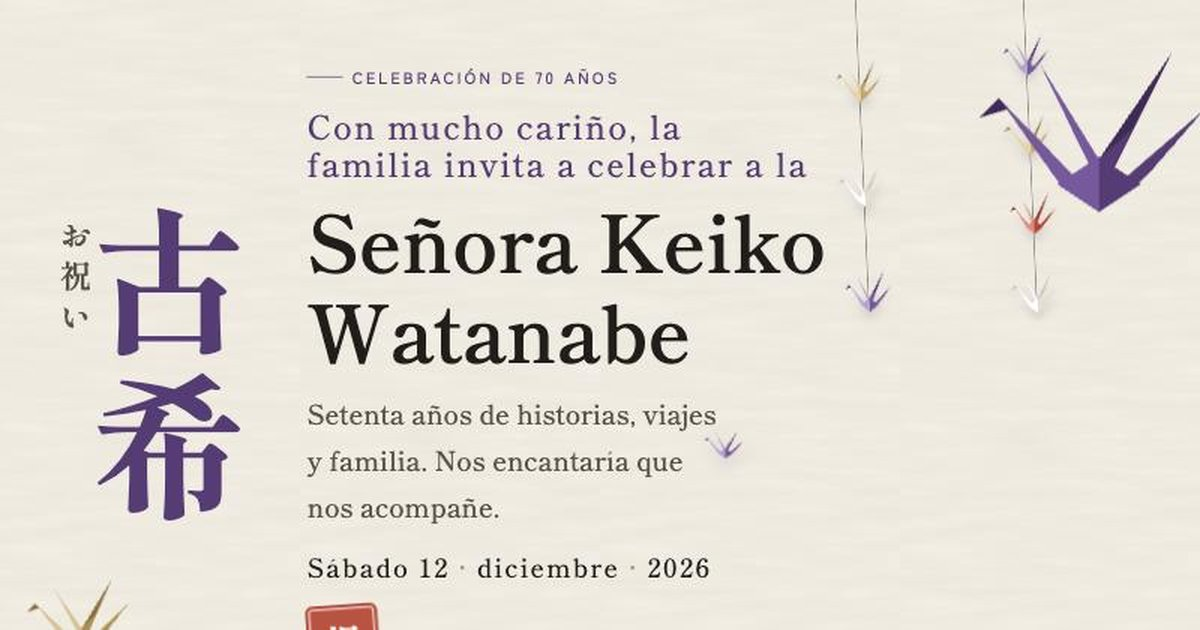
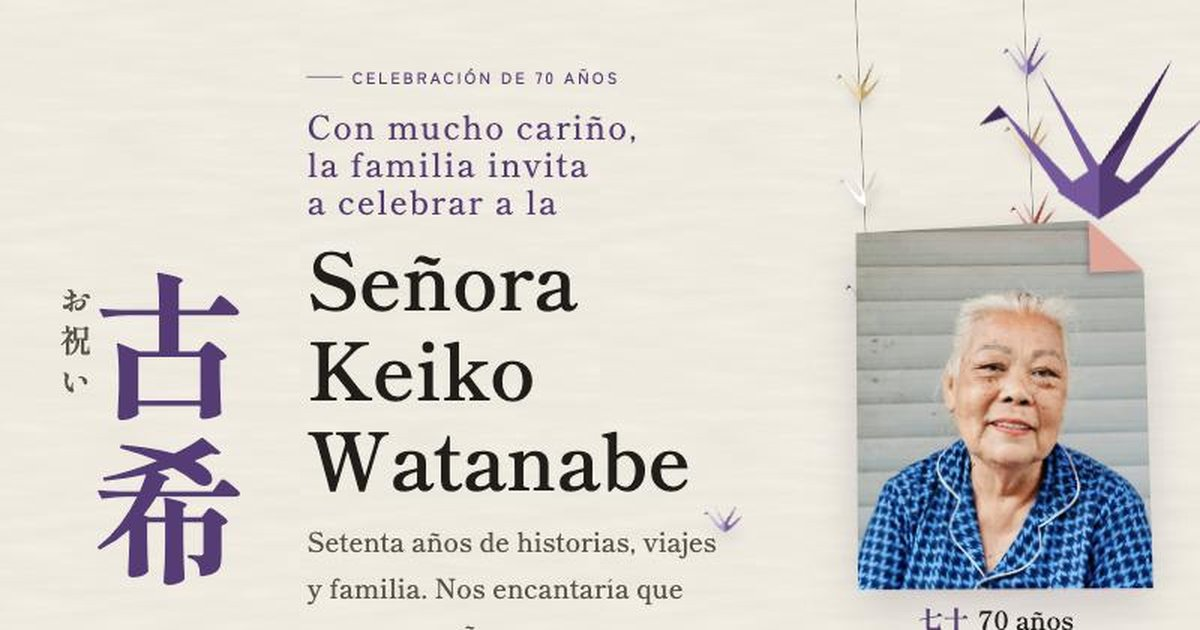
Foto de la homenajeada, lugar en Sushi Itto Altara y README de plantilla

diff --git a/index.html b/index.html
@@ -191,6 +191,16 @@ h1 em{font-style:normal;display:block;font-size:.42em;color:var(--murasaki);lett
 .pliego figcaption span{color:var(--sumi-suave)}
 .pliego .k{font-family:var(--mincho);font-weight:800;color:var(--murasaki);margin-right:.35em}
 
+/* retrato de la señora */
+.retrato{margin:0;width:clamp(230px,24vw,340px);max-width:100%;justify-self:center}
+.retrato .hoja-foto::after{--fold:var(--murasaki)}
+.retrato figcaption{text-align:center;justify-items:center}
+
+/* foto del lugar */
+.lugar{margin:8px 0 0;width:min(100%,360px)}
+.lugar .hoja-foto::after{--fold:var(--kin-claro)}
+.lugar figcaption{text-align:left}
+
 /* movimiento extra */
 .koki-kanji span{transition:transform .5s cubic-bezier(.2,.8,.2,1)}
 .koki-kanji span:hover{transform:translateY(-8px) rotate(-3deg)}
@@ -203,13 +213,14 @@ h1 em{font-style:normal;display:block;font-size:.42em;color:var(--murasaki);lett
 @media (max-width:640px){.guirnalda.solo-ancho{display:none}}
 
 @media (min-width:860px){
-  .portada-grid{grid-template-columns:auto 1fr}
+  .portada-grid{grid-template-columns:auto 1fr auto}
   .portada-txt{justify-items:start;text-align:left}
   .koki-wrap{grid-template-columns:1.3fr 1fr}
 }
 @media (orientation:landscape) and (max-height:560px){
   .portada{padding-block:28px 60px}
-  .portada-grid{grid-template-columns:auto 1fr}
+  .portada-grid{grid-template-columns:auto 1fr auto}
+  .retrato{width:clamp(180px,30vh,240px)}
   .portada-txt{justify-items:start;text-align:left}
   .tategaki{font-size:clamp(70px,24vh,120px)}
   h1{font-size:clamp(36px,11vh,64px)}
@@ -266,6 +277,7 @@ h1 em{font-style:normal;display:block;font-size:.42em;color:var(--murasaki);lett
       <p class="fecha-hero">Sábado 12 <span>·</span> diciembre <span>·</span> 2026</p>
       <div class="hanko" lang="ja" aria-label="Sello: celebración">祝</div>
     </div>
+    <figure class="retrato pliego"><div class="hoja-foto"><img src="fotos/keiko.jpg" alt="Foto de la señora Keiko sonriendo"></div><figcaption><b><span class="k" lang="ja">七十</span>70 años</b></figcaption></figure>
   </div>
 </header>
 
@@ -321,11 +333,12 @@ h1 em{font-style:normal;display:block;font-size:.42em;color:var(--murasaki);lett
     <div class="det-head">
       <span class="rotulo">Detalles</span>
       <h2>La celebración</h2>
+      <figure class="lugar pliego"><div class="hoja-foto"><img src="fotos/lugar.jpg" alt="Barra de sushi con faroles de papel" loading="lazy"></div><figcaption><b><span class="k" lang="ja">所</span>Sushi Itto Altara</b><span>Centro Comercial Altara, San Pedro Sula</span></figcaption></figure>
     </div>
     <div class="datos">
       <div class="dato"><span class="k" lang="ja">日</span><h3>Fecha</h3><p>Sábado 12 de diciembre de 2026</p></div>
       <div class="dato"><span class="k" lang="ja">時</span><h3>Hora</h3><p>7:00 p. m.</p></div>
-      <div class="dato"><span class="k" lang="ja">所</span><h3>Lugar</h3><p>Embajada del Japón, Tegucigalpa<br><a class="enlace" href="https://maps.google.com/?q=Embajada+del+Japon+Tegucigalpa" target="_blank" rel="noopener">Abrir en el mapa</a></p></div>
+      <div class="dato"><span class="k" lang="ja">所</span><h3>Lugar</h3><p>Sushi Itto Altara<br>Centro Comercial Altara, San Pedro Sula<br><a class="enlace" href="https://maps.google.com/?q=Sushi+Itto+Altara+San+Pedro+Sula" target="_blank" rel="noopener">Abrir en el mapa</a></p></div>
       <div class="dato"><span class="k" lang="ja">装</span><h3>Vestimenta</h3><p>Formal. Si lo desea, lleve un detalle morado en honor al koki.</p></div>
     </div>
   </div>
@@ -357,7 +370,7 @@ h1 em{font-style:normal;display:block;font-size:.42em;color:var(--murasaki);lett
   <div class="conf-wrap">
     <span class="rotulo">Confirmación</span>
     <h2>Le esperamos</h2>
-    <p>Por favor confirme su asistencia antes del 1 de diciembre. Los cupos de la embajada son limitados y cada invitado debe estar en la lista.</p>
+    <p>Por favor confirme su asistencia antes del 1 de diciembre. Reservamos el salón con cupo limitado y necesitamos el número exacto de invitados.</p>
     <p class="tel" id="tel">+504 9999-9999</p>
     <div class="acciones">
       <a class="btn" id="wa" href="#" target="_blank" rel="noopener">Confirmar por WhatsApp</a>

diff --git a/invitacion.html b/invitacion.html
@@ -173,6 +173,16 @@ h1 em{font-style:normal;display:block;font-size:.42em;color:var(--murasaki);lett
 .pliego figcaption span{color:var(--sumi-suave)}
 .pliego .k{font-family:var(--mincho);font-weight:800;color:var(--murasaki);margin-right:.35em}
 
+/* retrato de la señora */
+.retrato{margin:0;width:clamp(230px,24vw,340px);max-width:100%;justify-self:center}
+.retrato .hoja-foto::after{--fold:var(--murasaki)}
+.retrato figcaption{text-align:center;justify-items:center}
+
+/* foto del lugar */
+.lugar{margin:8px 0 0;width:min(100%,360px)}
+.lugar .hoja-foto::after{--fold:var(--kin-claro)}
+.lugar figcaption{text-align:left}
+
 /* movimiento extra */
 .koki-kanji span{transition:transform .5s cubic-bezier(.2,.8,.2,1)}
 .koki-kanji span:hover{transform:translateY(-8px) rotate(-3deg)}
@@ -185,13 +195,14 @@ h1 em{font-style:normal;display:block;font-size:.42em;color:var(--murasaki);lett
 @media (max-width:640px){.guirnalda.solo-ancho{display:none}}
 
 @media (min-width:860px){
-  .portada-grid{grid-template-columns:auto 1fr}
+  .portada-grid{grid-template-columns:auto 1fr auto}
   .portada-txt{justify-items:start;text-align:left}
   .koki-wrap{grid-template-columns:1.3fr 1fr}
 }
 @media (orientation:landscape) and (max-height:560px){
   .portada{padding-block:28px 60px}
-  .portada-grid{grid-template-columns:auto 1fr}
+  .portada-grid{grid-template-columns:auto 1fr auto}
+  .retrato{width:clamp(180px,30vh,240px)}
   .portada-txt{justify-items:start;text-align:left}
   .tategaki{font-size:clamp(70px,24vh,120px)}
   h1{font-size:clamp(36px,11vh,64px)}
@@ -246,6 +257,7 @@ h1 em{font-style:normal;display:block;font-size:.42em;color:var(--murasaki);lett
       <p class="fecha-hero">Sábado 12 <span>·</span> diciembre <span>·</span> 2026</p>
       <div class="hanko" lang="ja" aria-label="Sello: celebración">祝</div>
     </div>
+    <figure class="retrato pliego"><div class="hoja-foto"><img src="fotos/keiko.jpg" alt="Foto de la señora Keiko sonriendo"></div><figcaption><b><span class="k" lang="ja">七十</span>70 años</b></figcaption></figure>
   </div>
 </header>
 
@@ -301,11 +313,12 @@ h1 em{font-style:normal;display:block;font-size:.42em;color:var(--murasaki);lett
     <div class="det-head">
       <span class="rotulo">Detalles</span>
       <h2>La celebración</h2>
+      <figure class="lugar pliego"><div class="hoja-foto"><img src="fotos/lugar.jpg" alt="Barra de sushi con faroles de papel" loading="lazy"></div><figcaption><b><span class="k" lang="ja">所</span>Sushi Itto Altara</b><span>Centro Comercial Altara, San Pedro Sula</span></figcaption></figure>
     </div>
     <div class="datos">
       <div class="dato"><span class="k" lang="ja">日</span><h3>Fecha</h3><p>Sábado 12 de diciembre de 2026</p></div>
       <div class="dato"><span class="k" lang="ja">時</span><h3>Hora</h3><p>7:00 p. m.</p></div>
-      <div class="dato"><span class="k" lang="ja">所</span><h3>Lugar</h3><p>Embajada del Japón, Tegucigalpa<br><a class="enlace" href="https://maps.google.com/?q=Embajada+del+Japon+Tegucigalpa" target="_blank" rel="noopener">Abrir en el mapa</a></p></div>
+      <div class="dato"><span class="k" lang="ja">所</span><h3>Lugar</h3><p>Sushi Itto Altara<br>Centro Comercial Altara, San Pedro Sula<br><a class="enlace" href="https://maps.google.com/?q=Sushi+Itto+Altara+San+Pedro+Sula" target="_blank" rel="noopener">Abrir en el mapa</a></p></div>
       <div class="dato"><span class="k" lang="ja">装</span><h3>Vestimenta</h3><p>Formal. Si lo desea, lleve un detalle morado en honor al koki.</p></div>
     </div>
   </div>
@@ -337,7 +350,7 @@ h1 em{font-style:normal;display:block;font-size:.42em;color:var(--murasaki);lett
   <div class="conf-wrap">
     <span class="rotulo">Confirmación</span>
     <h2>Le esperamos</h2>
-    <p>Por favor confirme su asistencia antes del 1 de diciembre. Los cupos de la embajada son limitados y cada invitado debe estar en la lista.</p>
+    <p>Por favor confirme su asistencia antes del 1 de diciembre. Reservamos el salón con cupo limitado y necesitamos el número exacto de invitados.</p>
     <p class="tel" id="tel">+504 9999-9999</p>
     <div class="acciones">
       <a class="btn" id="wa" href="#" target="_blank" rel="noopener">Confirmar por WhatsApp</a>

diff --git a/README.md b/README.md
@@ -1,0 +1,13 @@
+# Plantilla: invitación koki (70 años, tema japonés)
+
+Para reusarla con otra persona o lugar:
+
+1. Textos: editar `invitacion.html` (nombre, fecha, hora, lugar, programa, teléfono en `EVENTO`).
+2. Fotos (mismo nombre de archivo, se reemplazan y listo):
+   - `fotos/keiko.jpg` foto de la homenajeada (vertical 4:5)
+   - `fotos/lugar.jpg` foto del lugar (vertical 4:5)
+   - `fotos/grullas.jpg`, `fotos/te.jpg`, `fotos/jardin.jpg` sección Tradición
+3. Armar la página: `cd ~/Developer && python3 armar-pagina.py cumple-koki <url> "<título>" "<descripción>" "#5B3A78"`
+4. Vista previa de WhatsApp: `vista.jpg` (1200×630).
+
+Fotos de ejemplo: Unsplash (licencia libre). Lugar de ejemplo: Sushi Itto Altara, C. C. Altara, San Pedro Sula.
